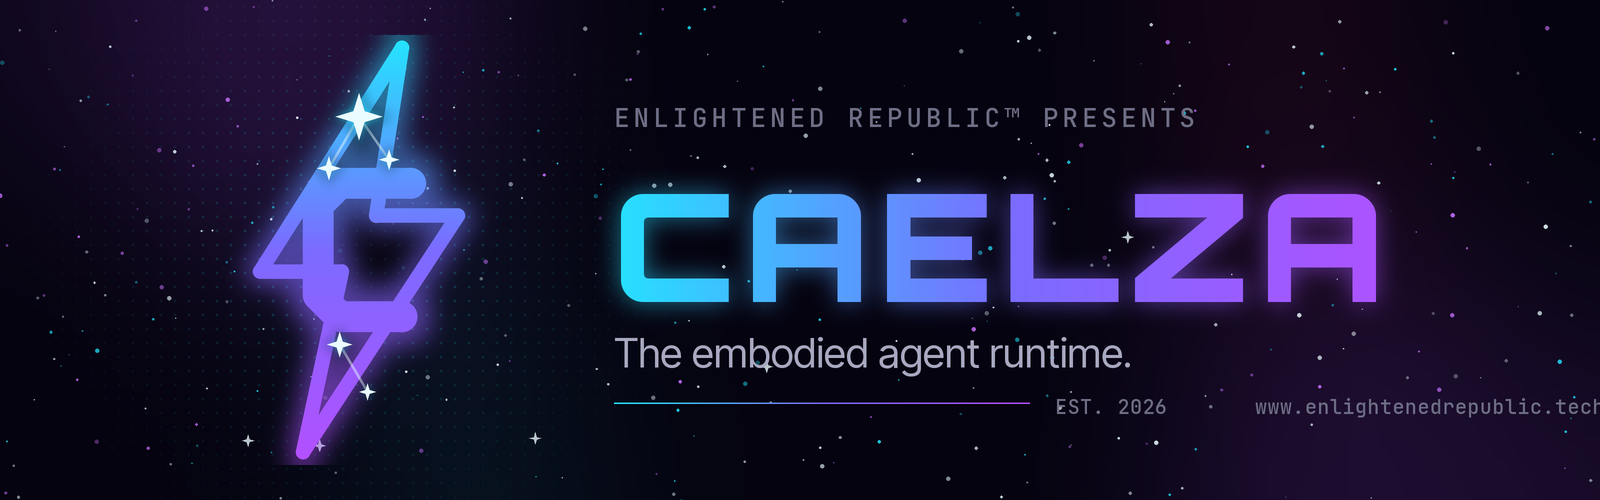
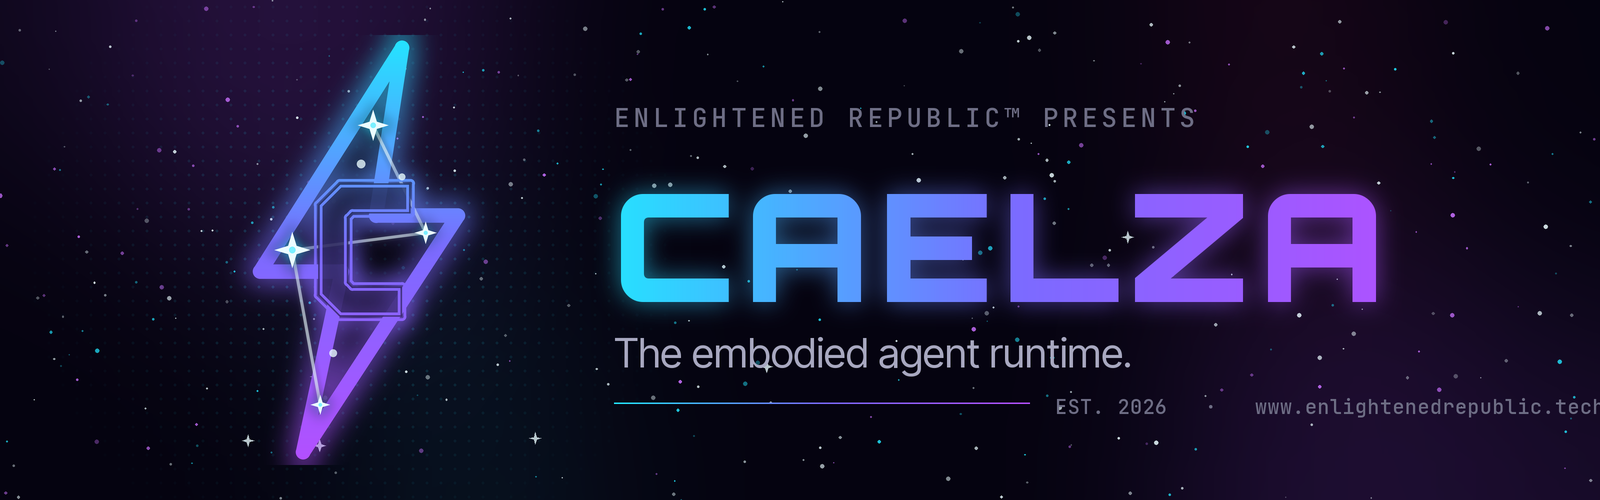
brand: the mark is Caelum drawn as a bolt; outlined C; figure art made optional
- The four main stars of the constellation Caelum (delta, alpha, beta, gamma
  Caeli) sit at the bolt's four turning points, sized by brightness, with the
  constellation line as the bolt's zigzag spine. Star order and relative
  brightness follow the sky; the zigzag and mirror are the logo's liberty.
- The C is now an outlined neon letter: dark fill with the outline drawn as
  two parallel gradient lines plus glow, so it reads as a letter, not a bar.
- App icons use the geometric mark at every size by default; the constellation
  figure illustration is kept in brand/art as reference and is opt-in via
  `make_assets.py --art-icons`. The bolt hero illustration stays as reference
  and in the runtime docs.
- logo.svg, tokens.json (mark geometry: c_polygon, named stars, constellation,
  minor stars), BRAND.md, README and the vision doc updated; hero.png re-rendered.

Claude-Session: https://claude.ai/code/session_01NGYKGarQSa9JpcHuCWGJKL

Changed region(s): [[0.1562, 0.18, 0.2812, 0.84]]

diff --git a/brand/make_assets.py b/brand/make_assets.py
@@ -3,14 +3,15 @@
 
     python3 brand/make_assets.py                 # → brand/out/ (+ brand/hero.png for the README)
     python3 brand/make_assets.py --runtime DIR   # write into a staged runtime tree
+    python3 brand/make_assets.py --art-icons     # opt in to the illustration for app icons ≥ 128 px
 
-The geometric mark (a lightning bolt with a chamfered C, neon cyan→violet→purple
-strokes, constellation stars) is drawn from brand/tokens.json so every build is
-reproducible without an SVG rasteriser; brand/logo.svg carries the same
-geometry. The two source illustrations under brand/art/ (the constellation
-figure app icon and the bolt hero) are used verbatim where they are big enough
-to read: app icons ≥ 128 px and hero surfaces. Everything smaller gets the
-geometric mark.
+The mark is the constellation Caelum drawn as a lightning bolt: its four main
+stars at the bolt's turning points, the constellation line as the bolt's spine,
+a chamfered C outlined in neon in the centre, all in the cyan→violet→purple
+gradient. It is drawn from brand/tokens.json so every build is reproducible
+without an SVG rasteriser; brand/logo.svg carries the same geometry. The
+illustrations under brand/art/ are reference material; the bolt hero is copied
+into the runtime docs, the figure icon is used only with --art-icons.
 """
 from __future__ import annotations
 
@@ -116,51 +117,79 @@ def _star(cx: float, cy: float, r: float, inner: float = 0.33) -> list[tuple[flo
 # the mark
 # ---------------------------------------------------------------------------
 
+def _closed_stroke_mask(size_px: int, pts: list[tuple[float, float]], width: float) -> Image.Image:
+    """Luminance mask of a closed polyline stroked at `width` with round joints."""
+    m = Image.new("L", (size_px, size_px), 0)
+    md = ImageDraw.Draw(m)
+    md.line(pts + [pts[0]], fill=255, width=max(int(width), 1), joint="curve")
+    for p in pts:
+        md.ellipse([p[0] - width / 2, p[1] - width / 2, p[0] + width / 2, p[1] + width / 2], fill=255)
+    return m
+
+
 def draw_mark(size: int, *, glow: bool = True) -> Image.Image:
-    """Bolt + chamfered C in neon gradient strokes with constellation stars."""
+    """Caelum as a bolt: neon gradient outline, the constellation as its spine,
+    an outlined C in the centre."""
     s = size * SS
     bolt = [(x * s, y * s) for x, y in M["bolt"]]
-    cpts = [(x * s, y * s) for x, y in M["c"]]
-    sw, cw = M["stroke"] * s, M["c_stroke"] * s
+    cpoly = [(x * s, y * s) for x, y in M["c_polygon"]]
+    sw = M["stroke"] * s
+    cw, cgap = M["c_outline"] * s, M["c_inner_gap"] * s
     stops = C["gradient_mark"]
+    direction = M.get("gradient_direction", "vertical")
+    big = glow and size >= 40
+    stars = M["stars"]
 
     im = Image.new("RGBA", (s, s), (0, 0, 0, 0))
     # Translucent dark fill inside the bolt so the stars read on any surface.
     ImageDraw.Draw(im).polygon(bolt, fill=_hex(C["void"], 185))
 
-    def stroke_mask(width_mul: float) -> Image.Image:
-        m = Image.new("L", (s, s), 0)
-        md = ImageDraw.Draw(m)
-        md.line(bolt + [bolt[0]], fill=255, width=int(sw * width_mul), joint="curve")
-        md.line(cpts, fill=255, width=int(cw * width_mul), joint="curve")
-        for p in bolt:
-            md.ellipse([p[0] - sw * width_mul / 2, p[1] - sw * width_mul / 2,
-                        p[0] + sw * width_mul / 2, p[1] + sw * width_mul / 2], fill=255)
-        for p in (cpts[0], cpts[-1]):
-            md.ellipse([p[0] - cw * width_mul / 2, p[1] - cw * width_mul / 2,
-                        p[0] + cw * width_mul / 2, p[1] + cw * width_mul / 2], fill=255)
-        return m
-
-    direction = M.get("gradient_direction", "vertical")
-    if glow and size >= 40:
-        halo = stroke_mask(1.9).filter(ImageFilter.GaussianBlur(s * 0.028))
+    # Bolt outline with glow.
+    if big:
+        halo = _closed_stroke_mask(s, bolt, sw * 1.9).filter(ImageFilter.GaussianBlur(s * 0.028))
         im = Image.alpha_composite(im, _through_mask(halo, stops, direction=direction, alpha=0.6))
-    im = Image.alpha_composite(im, _through_mask(stroke_mask(1.0), stops, direction=direction))
+    im = Image.alpha_composite(im, _through_mask(_closed_stroke_mask(s, bolt, sw), stops, direction=direction))
 
-    # Constellation lines + stars.
+    # Constellation spine: delta → alpha → beta → gamma, under the C.
+    spine = Image.new("RGBA", (s, s), (0, 0, 0, 0))
+    sd = ImageDraw.Draw(spine)
+    for a, b in M["constellation"]:
+        (x0, y0), (x1, y1) = stars[a]["pos"], stars[b]["pos"]
+        sd.line([(x0 * s, y0 * s), (x1 * s, y1 * s)], fill=_hex(C["star"], 150), width=max(int(s * 0.007), 1))
+    if big:
+        spine = Image.alpha_composite(spine.filter(ImageFilter.GaussianBlur(s * 0.006)), spine)
+    im = Image.alpha_composite(im, spine)
+
+    # The C: dark fill, then a neon outline drawn as two parallel lines (a
+    # gradient stroke with its centre line cut back out), with glow.
+    cfill = Image.new("RGBA", (s, s), (0, 0, 0, 0))
+    ImageDraw.Draw(cfill).polygon(cpoly, fill=_hex(C["void"], 215))
+    im = Image.alpha_composite(im, cfill)
+    outline = _closed_stroke_mask(s, cpoly, cw)
+    if big:
+        halo = _closed_stroke_mask(s, cpoly, cw * 2.2).filter(ImageFilter.GaussianBlur(s * 0.022))
+        im = Image.alpha_composite(im, _through_mask(halo, stops, direction=direction, alpha=0.55))
+        inner = _closed_stroke_mask(s, cpoly, cgap)
+        outline = Image.composite(Image.new("L", (s, s), 0), outline, inner)
+    im = Image.alpha_composite(im, _through_mask(outline, stops, direction=direction))
+
+    # Stars: the four of Caelum (glyph size by brightness) plus faint minors.
     layer = Image.new("RGBA", (s, s), (0, 0, 0, 0))
-    ld = ImageDraw.Draw(layer)
-    for (x0, y0), (x1, y1) in M["constellation"]:
-        ld.line([(x0 * s, y0 * s), (x1 * s, y1 * s)], fill=_hex(C["star"], 120), width=max(int(s * 0.006), 1))
-    if glow and size >= 40:
+    if big:
         g = Image.new("RGBA", (s, s), (0, 0, 0, 0))
         gd = ImageDraw.Draw(g)
-        for x, y, r in M["stars"]:
-            gd.polygon(_star(x * s, y * s, r * s * 1.4), fill=_hex(C["primary"], 160))
-        layer = Image.alpha_composite(layer, g.filter(ImageFilter.GaussianBlur(s * 0.012)))
-        ld = ImageDraw.Draw(layer)
-    for x, y, r in M["stars"]:
+        for st in stars.values():
+            (x, y), r = st["pos"], st["r"]
+            gd.polygon(_star(x * s, y * s, r * s * 1.5), fill=_hex(C["primary"], 170))
+        layer = Image.alpha_composite(layer, g.filter(ImageFilter.GaussianBlur(s * 0.014)))
+    ld = ImageDraw.Draw(layer)
+    for st in stars.values():
+        (x, y), r = st["pos"], st["r"]
         ld.polygon(_star(x * s, y * s, r * s), fill=_hex(C["star"]))
+        ld.ellipse([x * s - r * s * 0.18, y * s - r * s * 0.18, x * s + r * s * 0.18, y * s + r * s * 0.18],
+                   fill=_hex(C["primary_light"]))
+    for x, y, r in M.get("minor_stars", []):
+        ld.ellipse([x * s - r * s, y * s - r * s, x * s + r * s, y * s + r * s], fill=_hex(C["star"], 200))
     im = Image.alpha_composite(im, layer)
     return im.resize((size, size), Image.LANCZOS)
 
@@ -293,7 +322,8 @@ def art_icon_square() -> Image.Image | None:
 
 
 def icon(size: int, *, art: Image.Image | None = None) -> Image.Image:
-    """App icon: the illustration when it can be read, else backdrop + neon frame + mark."""
+    """App icon: backdrop + neon frame + the mark. With `art` (opt-in via
+    --art-icons) the illustration is used instead at 128 px and above."""
     if art is not None and size >= 128:
         return art.resize((size, size), Image.LANCZOS)
     s = size * SS
@@ -322,11 +352,11 @@ def save_png(im: Image.Image, path: Path) -> None:
     im.save(path, "PNG", optimize=True)
 
 
-def render_set(out: Path) -> None:
-    art = art_icon_square()
+def render_set(out: Path, *, use_art: bool = False) -> None:
+    art = art_icon_square() if use_art else None
     save_png(draw_mark(1024), out / "caelza-mark-1024.png")
     save_png(draw_mark(512), out / "caelza-mark-512.png")
-    save_png(icon(512), out / "caelza-icon-geometric-512.png")
+    save_png(icon(512), out / "caelza-icon-512.png")
     if art is not None:
         save_png(icon(1024, art=art), out / "caelza-icon-art-1024.png")
     save_png(wordmark(160), out / "caelza-wordmark.png")
@@ -338,10 +368,10 @@ def render_set(out: Path) -> None:
                         sizes=[(16, 16), (32, 32), (48, 48), (64, 64), (128, 128), (256, 256)])
 
 
-def render_runtime(root: Path) -> None:
+def render_runtime(root: Path, *, use_art: bool = False) -> None:
     """Write assets at the paths the (renamed) upstream tree expects."""
     svg = (HERE / "logo.svg").read_text(encoding="utf-8")
-    art = art_icon_square()
+    art = art_icon_square() if use_art else None
     mark256 = draw_mark(256)
     save_png(mark256, root / "web/public/logo.png")
     save_png(mark256, root / "web/dist/logo.png")
@@ -376,12 +406,14 @@ def main() -> None:
     ap = argparse.ArgumentParser(description=__doc__, formatter_class=argparse.RawDescriptionHelpFormatter)
     ap.add_argument("--runtime", type=Path, help="staged runtime tree to write assets into")
     ap.add_argument("--out", type=Path, default=HERE / "out", help="loose asset output dir (default brand/out)")
+    ap.add_argument("--art-icons", action="store_true",
+                    help="use the illustration in brand/art for app icons >= 128 px instead of the geometric mark")
     args = ap.parse_args()
     if args.runtime:
-        render_runtime(args.runtime.resolve())
+        render_runtime(args.runtime.resolve(), use_art=args.art_icons)
         print(f"brand assets written into {args.runtime}")
     else:
-        render_set(args.out)
+        render_set(args.out, use_art=args.art_icons)
         print(f"brand assets written to {args.out} (and brand/hero.png)")
 
 

diff --git a/brand/BRAND.md b/brand/BRAND.md
@@ -14,40 +14,56 @@ out in the world, under an open sky.
 
 Tagline: **The embodied agent runtime.**
 
-## The art
+## The mark: Caelum as a bolt
 
-Two source illustrations live in `art/` and are the reference for everything
-else:
+**Caelum** is a real constellation, the chisel, a faint little figure in the
+southern sky next to Eridanus. Its four main stars, δ, α, β and γ Caeli, form a
+bent line. The Caelza mark draws that line as a **lightning bolt**: the four
+stars sit at the bolt's four turning points and the constellation line is the
+bolt's zigzag spine. A chamfered **C** sits in the centre, drawn as an outlined
+neon letter.
 
-| File | What | Where it is used |
+| Star | Brightness (mag) | Where it sits |
 |---|---|---|
-| `art/caelza-app-icon-src.png` | the constellation figure in a neon-framed rounded square, with the bolt-C on its chest and the wordmark below | app icons at 128 px and above (Tauri, store listings, the Android app), splash screens |
-| `art/caelza-hero-src.jpg` | the bolt-C mark with constellation stars over a starfield and dot matrix, wordmark below | hero surfaces: docs landing, login screen, social cards |
+| α Caeli | 4.45, the brightest | the left notch, the biggest glyph |
+| γ Caeli | 4.55 | the head of the bolt |
+| β Caeli | 5.05 | the right notch |
+| δ Caeli | 5.07 | the tip |
 
-They are illustrations, not vectors, so the geometric mark below is their
-small-size and vector equivalent. The rule: **art where it can be read,
-geometry where it cannot.** Below 128 px the figure turns to mush; the bolt-C
-holds down to 16 px.
+The sky figure is a hook; the bolt takes the liberty of a zigzag and a mirror,
+as star globes do. Star order and relative brightness are kept, so it is
+still Caelum. Three faint minor stars add texture and carry no lines.
 
-## The mark
+Construction:
 
-A **lightning bolt with a chamfered C cut into its centre**, drawn as neon
-outlines in the mark gradient (cyan `#22e6ff` → violet `#7b6bff` → purple
-`#b44fff`, top-left to bottom-right) with a soft glow. Four-point stars and
-thin constellation lines sit inside the bolt; the bolt body is a translucent
-space-black so the stars read on any surface.
-
-- The bolt is energy and action: the agent *does things*.
-- The C is Caelza, cut into the bolt the way the chest emblem is cut into the
-  figure in the art.
-- The stars are the sky in the name, and a nod to the Republic's space motif.
-- At 40 px and above the strokes and stars glow. Below that they are flat.
-- Geometry in `tokens.json` → `mark` (`bolt`, `c`, `stars`, `constellation`),
-  vector in `logo.svg`; `make_assets.py` renders PNG/ICO/ICNS from the same
-  numbers.
+- Bolt outline in the mark gradient (cyan `#22e6ff` → violet `#7b6bff` →
+  purple `#b44fff`, top to bottom) with a soft glow; the bolt body is a
+  translucent space-black so the stars read on any surface.
+- Constellation spine: a thin bright line δ → α → β → γ, drawn under the C.
+- The C: dark fill, then the outline drawn as **two parallel neon lines** (a
+  gradient stroke with its centre cut back out), with glow. That double line
+  is what makes it read as a letter instead of a bar.
+- Stars are four-point glyphs with a cyan glow and a bright core, sized by
+  brightness.
+- At 40 px and above everything glows. Below that it is flat.
+- Geometry in `tokens.json` → `mark` (`bolt`, `c_polygon`, `stars`,
+  `constellation`, `minor_stars`); vector in `logo.svg`; `make_assets.py`
+  renders PNG/ICO/ICNS from the same numbers.
 
 Minimum size 16 px (favicon). Never recolour the gradient; on a single-colour
 surface use flat primary cyan. Never fill the bolt solid.
+
+## The art
+
+Two illustrations live in `art/` as **reference material**, not as the mark:
+
+| File | What | Status |
+|---|---|---|
+| `art/caelza-hero-src.jpg` | a bolt-C with constellation stars over a starfield and dot matrix, wordmark below | the direction the mark and backdrop follow; copied into the runtime docs as `caelza-hero-art.jpg` |
+| `art/caelza-app-icon-src.png` | a constellation figure in a neon-framed rounded square | undecided. Not used by default; `make_assets.py --art-icons` swaps it in for app icons at 128 px and above if wanted |
+
+App icons use the geometric mark on the cosmic backdrop inside a neon gradient
+frame at every size by default.
 
 ## The lockup
 
@@ -131,10 +147,10 @@ brand/
 ├── BRAND.md         this guide
 ├── tokens.json      colours, type, radii, motion, parent links, mark geometry (source of truth)
 ├── tokens.css       the same as CSS custom properties, dark + derived light, hero backdrop
-├── logo.svg         the mark, vector (gradient strokes + glow + stars)
+├── logo.svg         the mark, vector (Caelum as a bolt: gradient strokes, glow, spine, stars, outlined C)
 ├── hero.png         the rendered README banner (regenerated by make_assets.py)
-├── art/             the two source illustrations (app icon figure, bolt hero)
-├── make_assets.py   renders mark / icons / wordmark / banners (brand/out, or into a runtime tree)
+├── art/             reference illustrations (bolt hero; the figure icon, undecided)
+├── make_assets.py   renders mark / icons / wordmark / banners (brand/out, or into a runtime tree; --art-icons opt-in)
 ├── fonts/           Orbitron 900, Inter Tight 400/700, JetBrains Mono 500 + OFL licences
 └── out/             rendered assets (git-ignored; `python3 brand/make_assets.py`)
 ```

diff --git a/docs/design/caelza-vision.md b/docs/design/caelza-vision.md
@@ -289,10 +289,11 @@ plugin API itself.
 4. **It is an Enlightened Republic product.** The Build Lab system
    (`enlightenedrepublic.tech`) with Caelza's cosmic tint: space-black
    backgrounds with a violet cast, cyan does the work, purple marks the brand,
-   Inter Tight + JetBrains Mono with mono eyebrows in caps, the bolt-C mark and
-   the Orbitron wordmark in the cyan→purple gradient, constellation stars and
-   the nebula/dot-matrix backdrop on hero surfaces only. One glowing element
-   per view; the gradient is a flourish.
+   Inter Tight + JetBrains Mono with mono eyebrows in caps, the mark (the
+   constellation Caelum drawn as a bolt with an outlined C) and the Orbitron
+   wordmark in the cyan→purple gradient, and the nebula/dot-matrix backdrop on
+   hero surfaces only. One glowing element per view; the gradient is a
+   flourish.
 5. **Keep the stack.** React 19 + Vite + Tailwind 4, the upstream dashboard's
    component library and theme system. Redesign is tokens, IA and new pages,
    not a rewrite.

diff --git a/README.md b/README.md
@@ -24,8 +24,10 @@ architecture, the roadmap, what we are borrowing from
 [OpenClaw](https://github.com/openclaw/openclaw), and the UI redesign.
 Brand: [`brand/BRAND.md`](brand/BRAND.md). Caelza uses the Enlightened Republic
 Build Lab design system (Inter Tight, JetBrains Mono, the Republic palette)
-with its own identity on top: the bolt-C mark in neon cyan→purple, the
-Orbitron wordmark, constellation stars and the cosmic backdrop.
+with its own identity on top: the mark is the constellation **Caelum** drawn
+as a lightning bolt, its four stars at the bolt's turning points and an
+outlined C in the centre, in neon cyan→purple, with the Orbitron wordmark and
+the cosmic backdrop.
 
 ## Runtime
 
